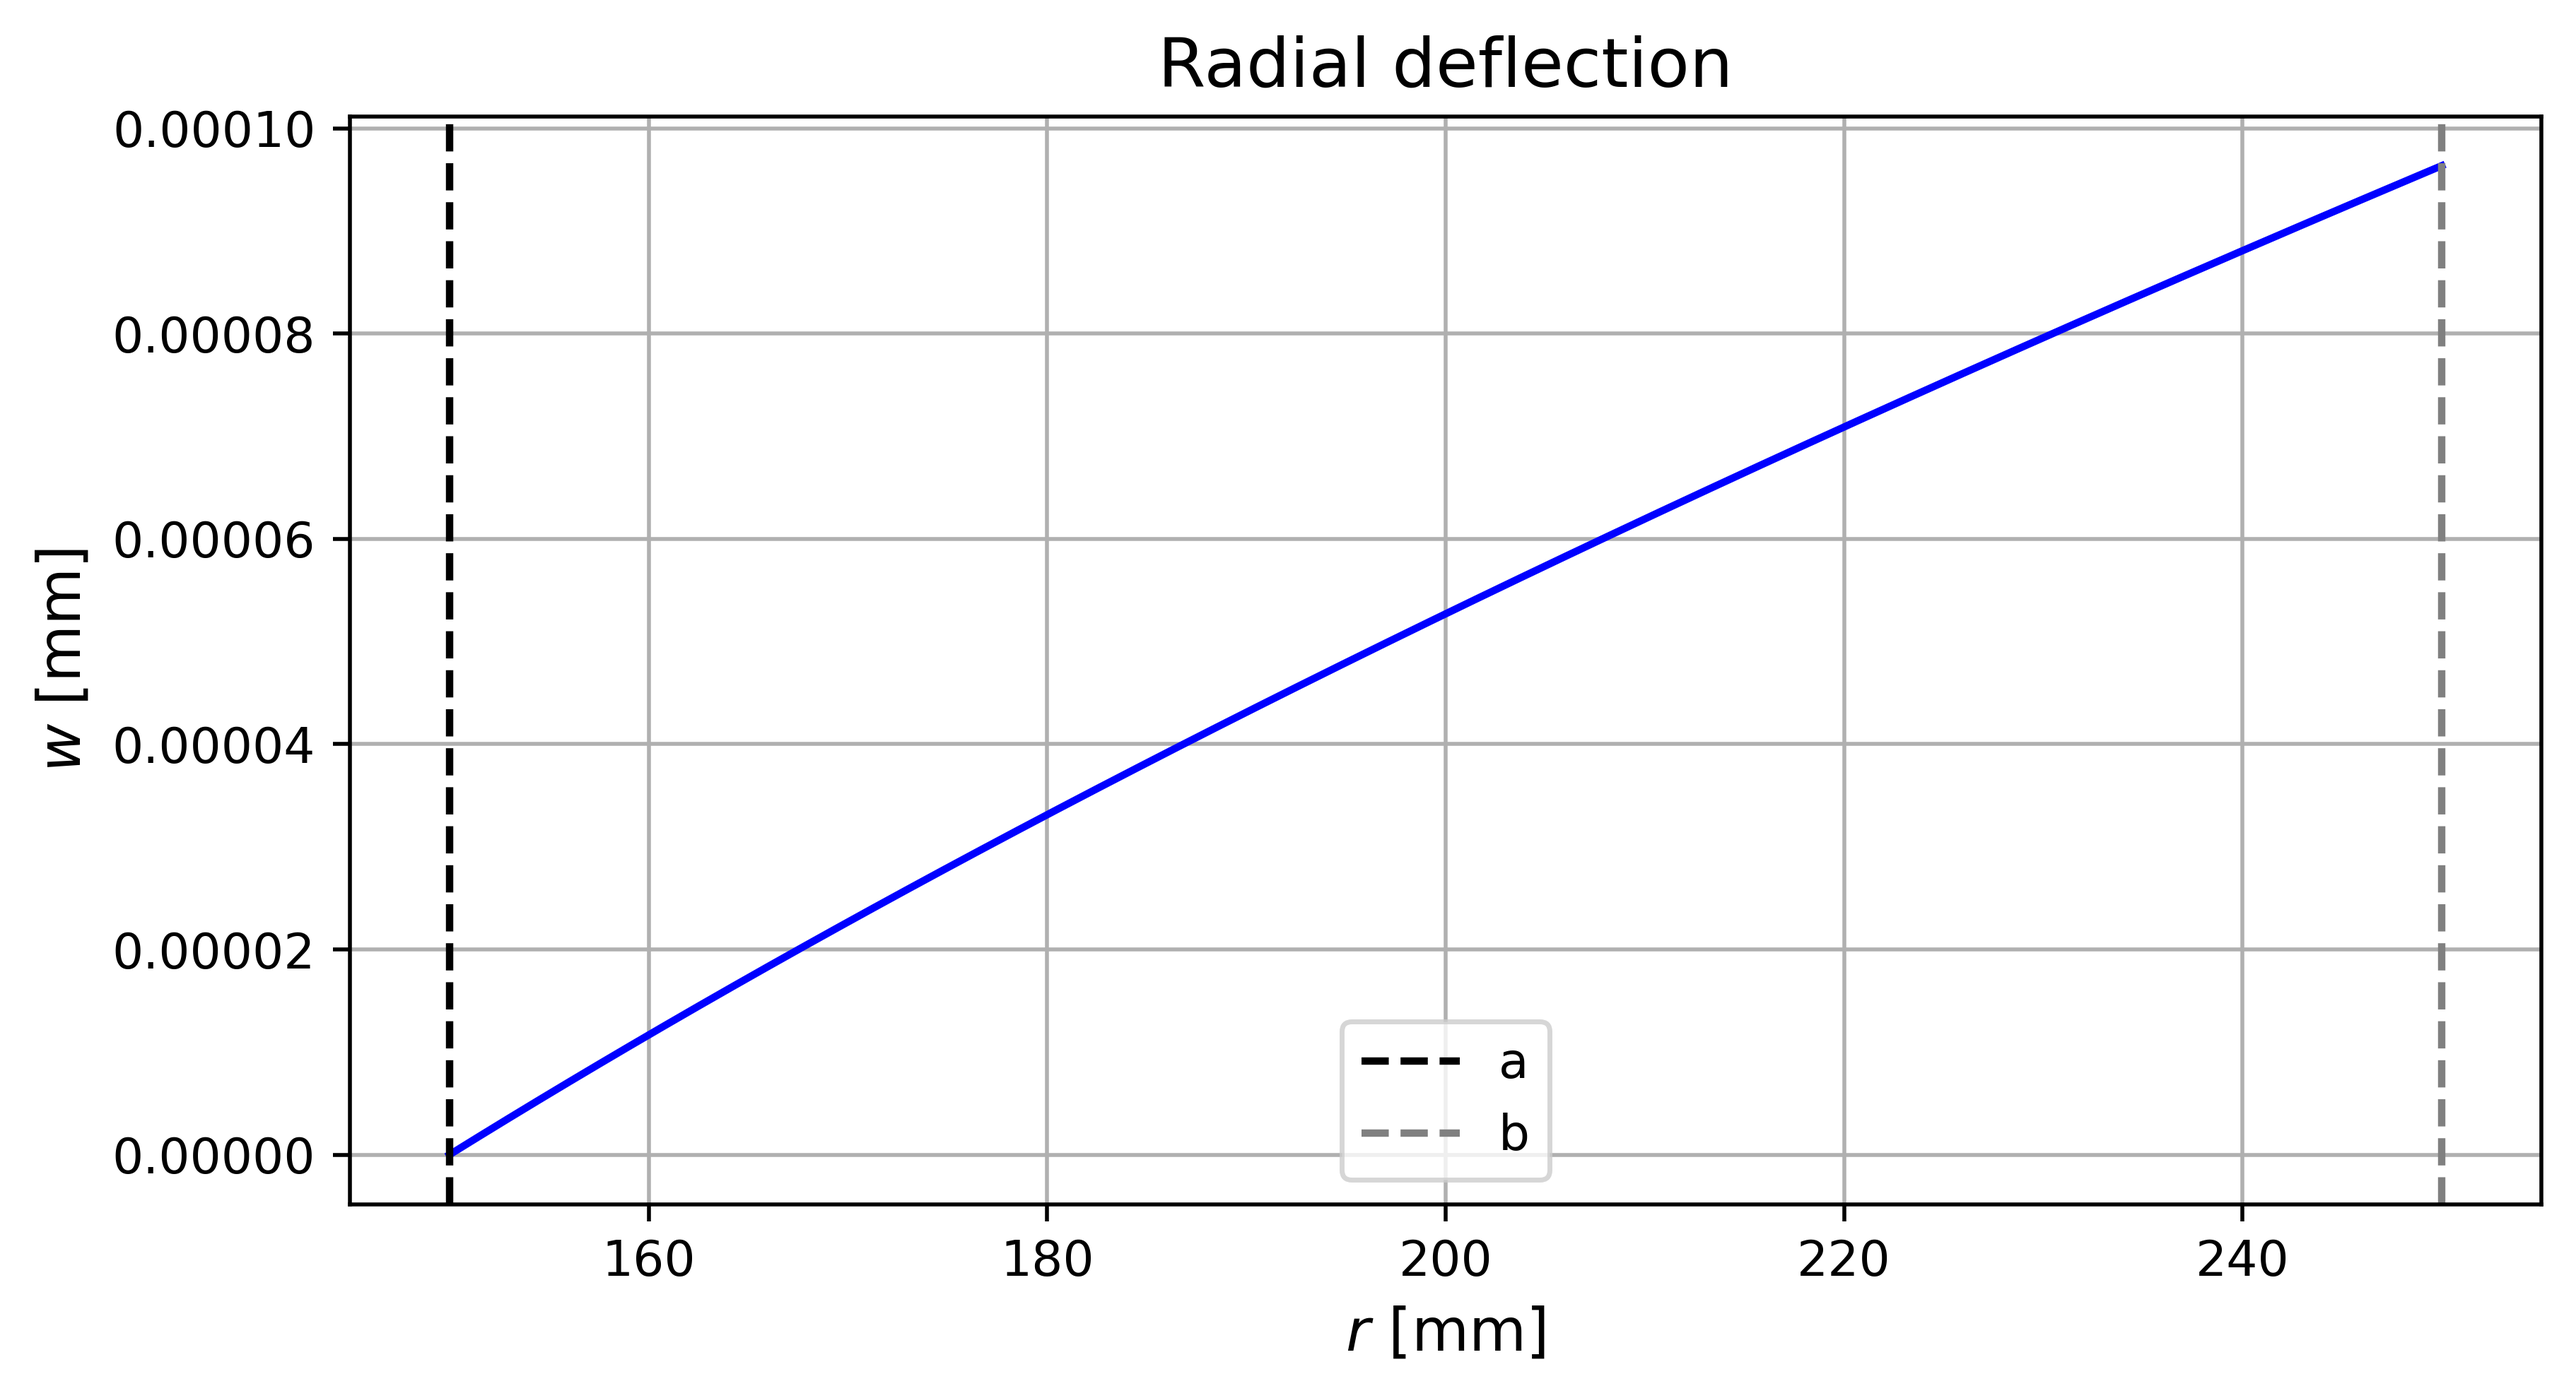
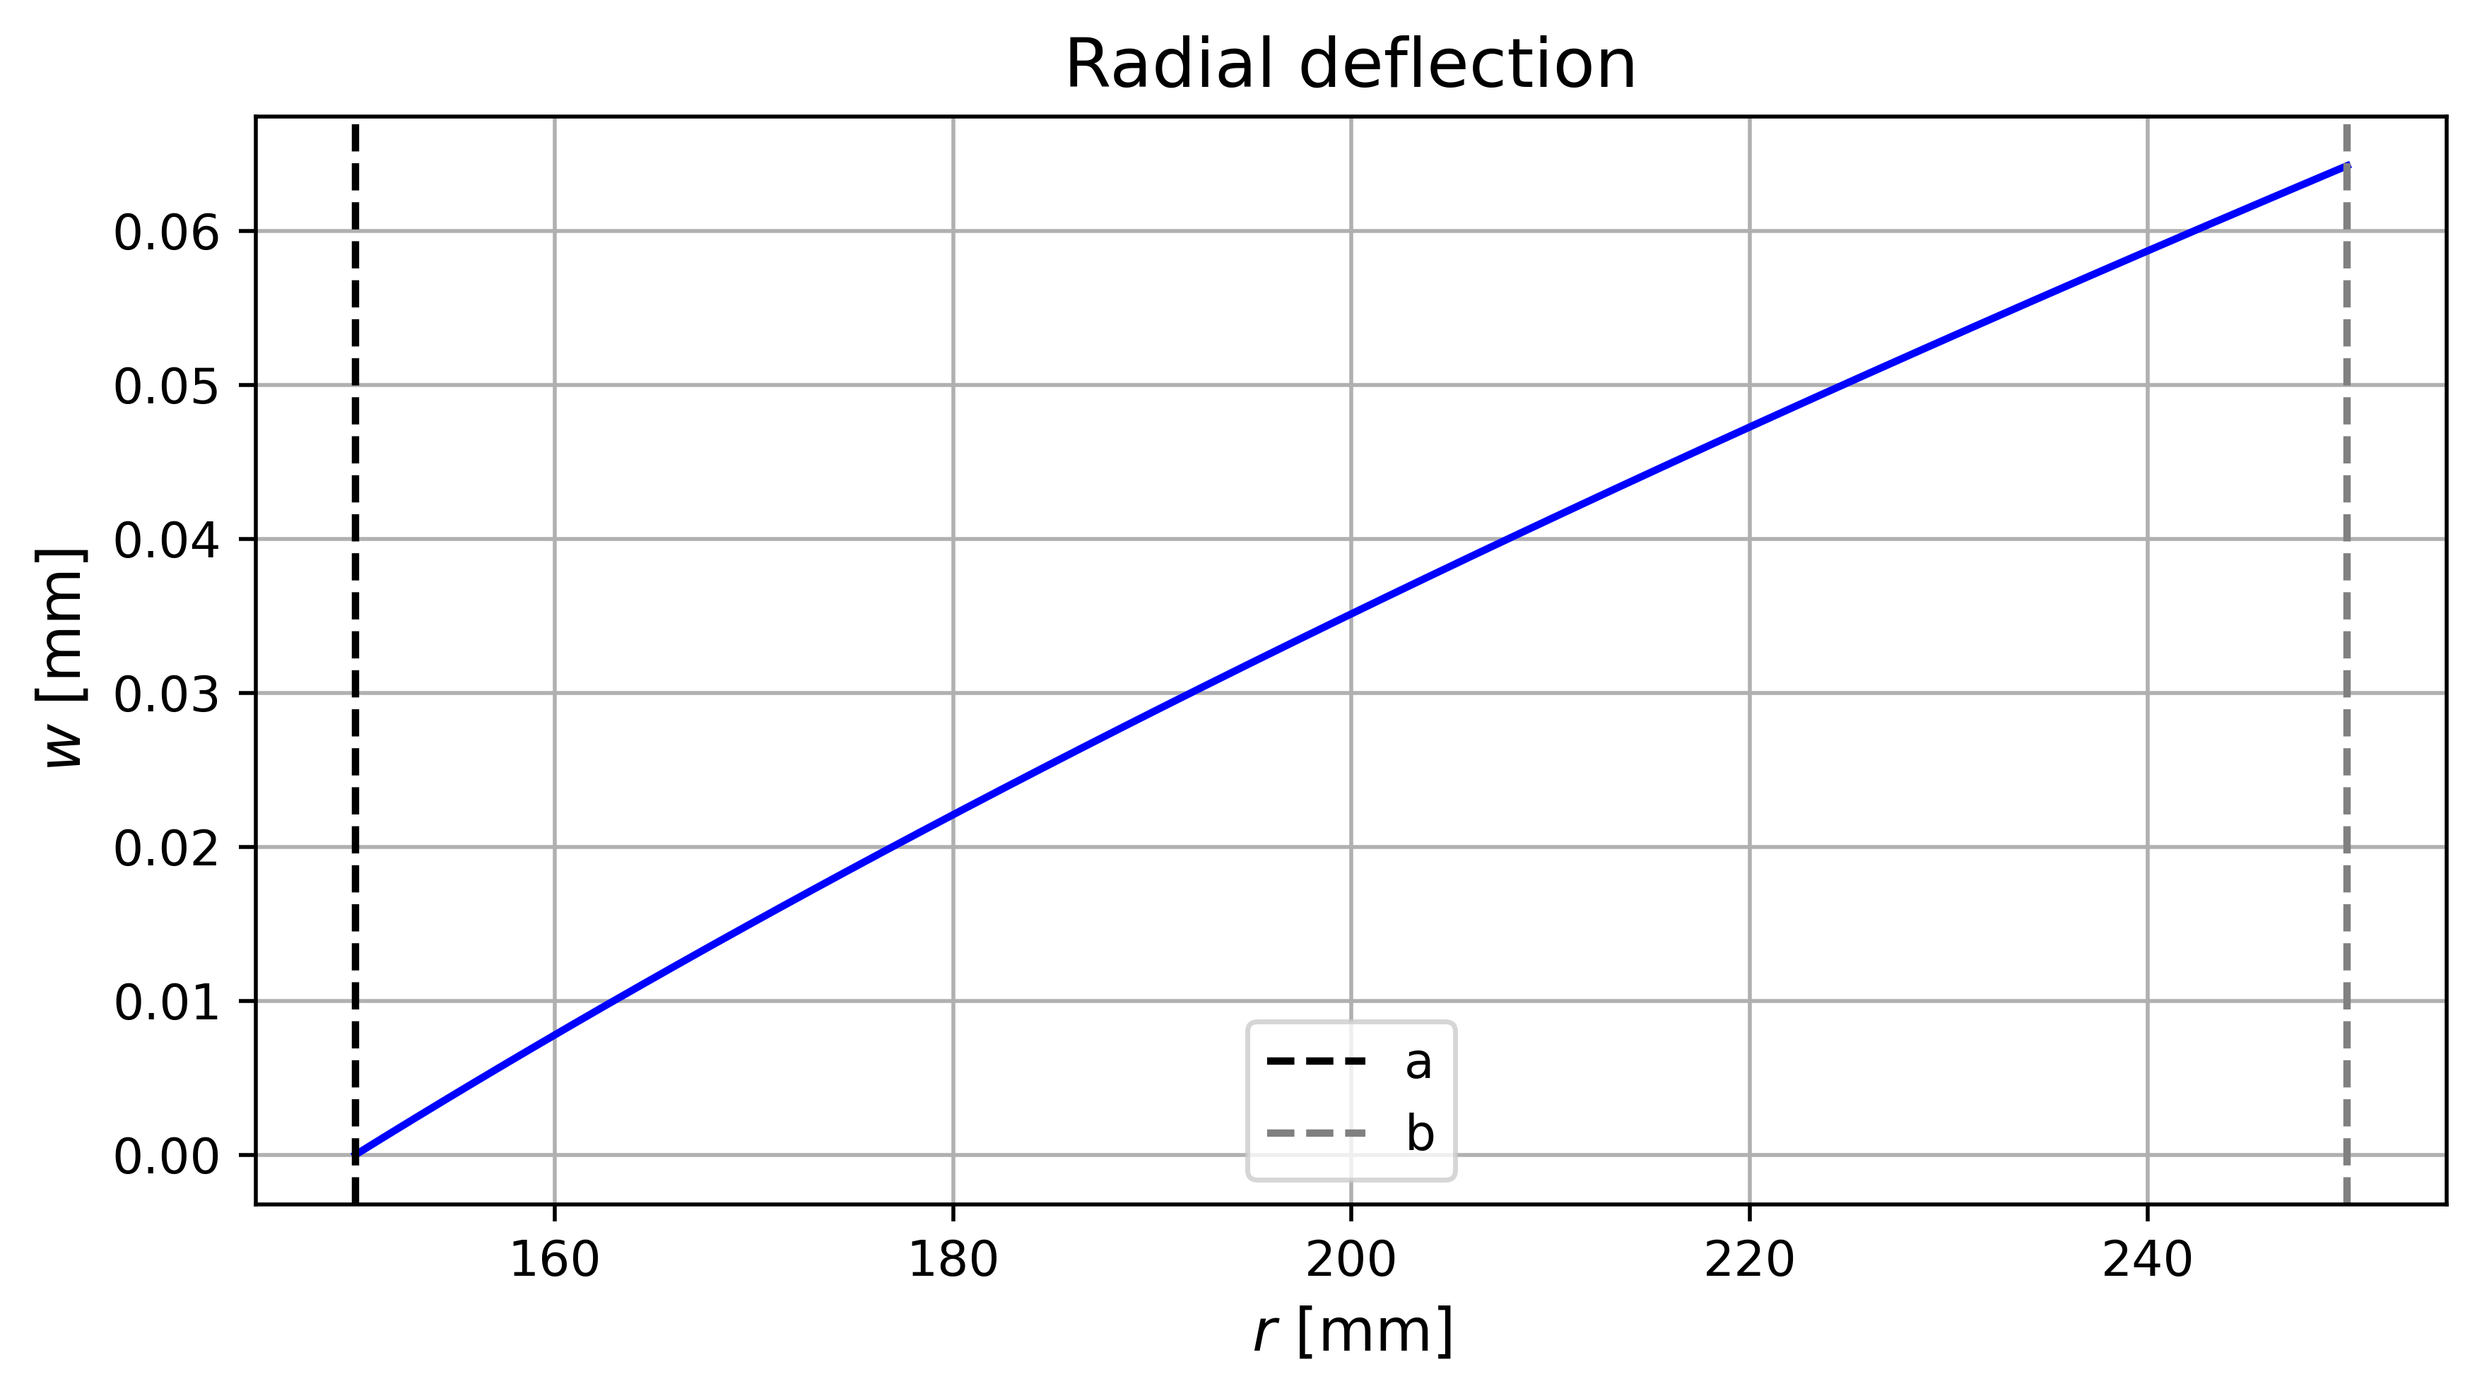
.

diff --git a/TME235/A1&A2 (TME235) - Martin v2.py b/TME235/A1&A2 (TME235) - Martin v2.py
@@ -926,7 +926,7 @@ p_num = 120 * 10**6
 # Define symbols
 p, q0, a, b, E, nu, h, r, f_r, A1, A2 = symbols('p q0 a b E nu h r f_r A1 A2', real = True)
 
-D = 1 / 12 / (1 - nu**2) * E * (h**3) # bending stiffness
+D = E / (1 - nu**2)  # same as in problem 4 in the literature
 
 # radial force = 0
 f_r = 0
@@ -992,12 +992,11 @@ plt.axvline(b_num, color='grey', linestyle='--', label='b')
 plt.axhline(0, color='gray', linestyle='-', linewidth=0.5)
 plt.title('Normal stress')
 plt.xlabel(r"$r$ [mm]")
-plt.ylabel(r"$\sigma_{rr}$ [MPa]")
+plt.ylabel(r"$\sigma_{rr}$ [Pa]")
 plt.grid()
 plt.legend()
 plt.savefig('Normal stress', dpi=dpi, bbox_inches='tight')
 plt.show()
-
 # %%
 ####################################################################################################
 ####################################################################################################
